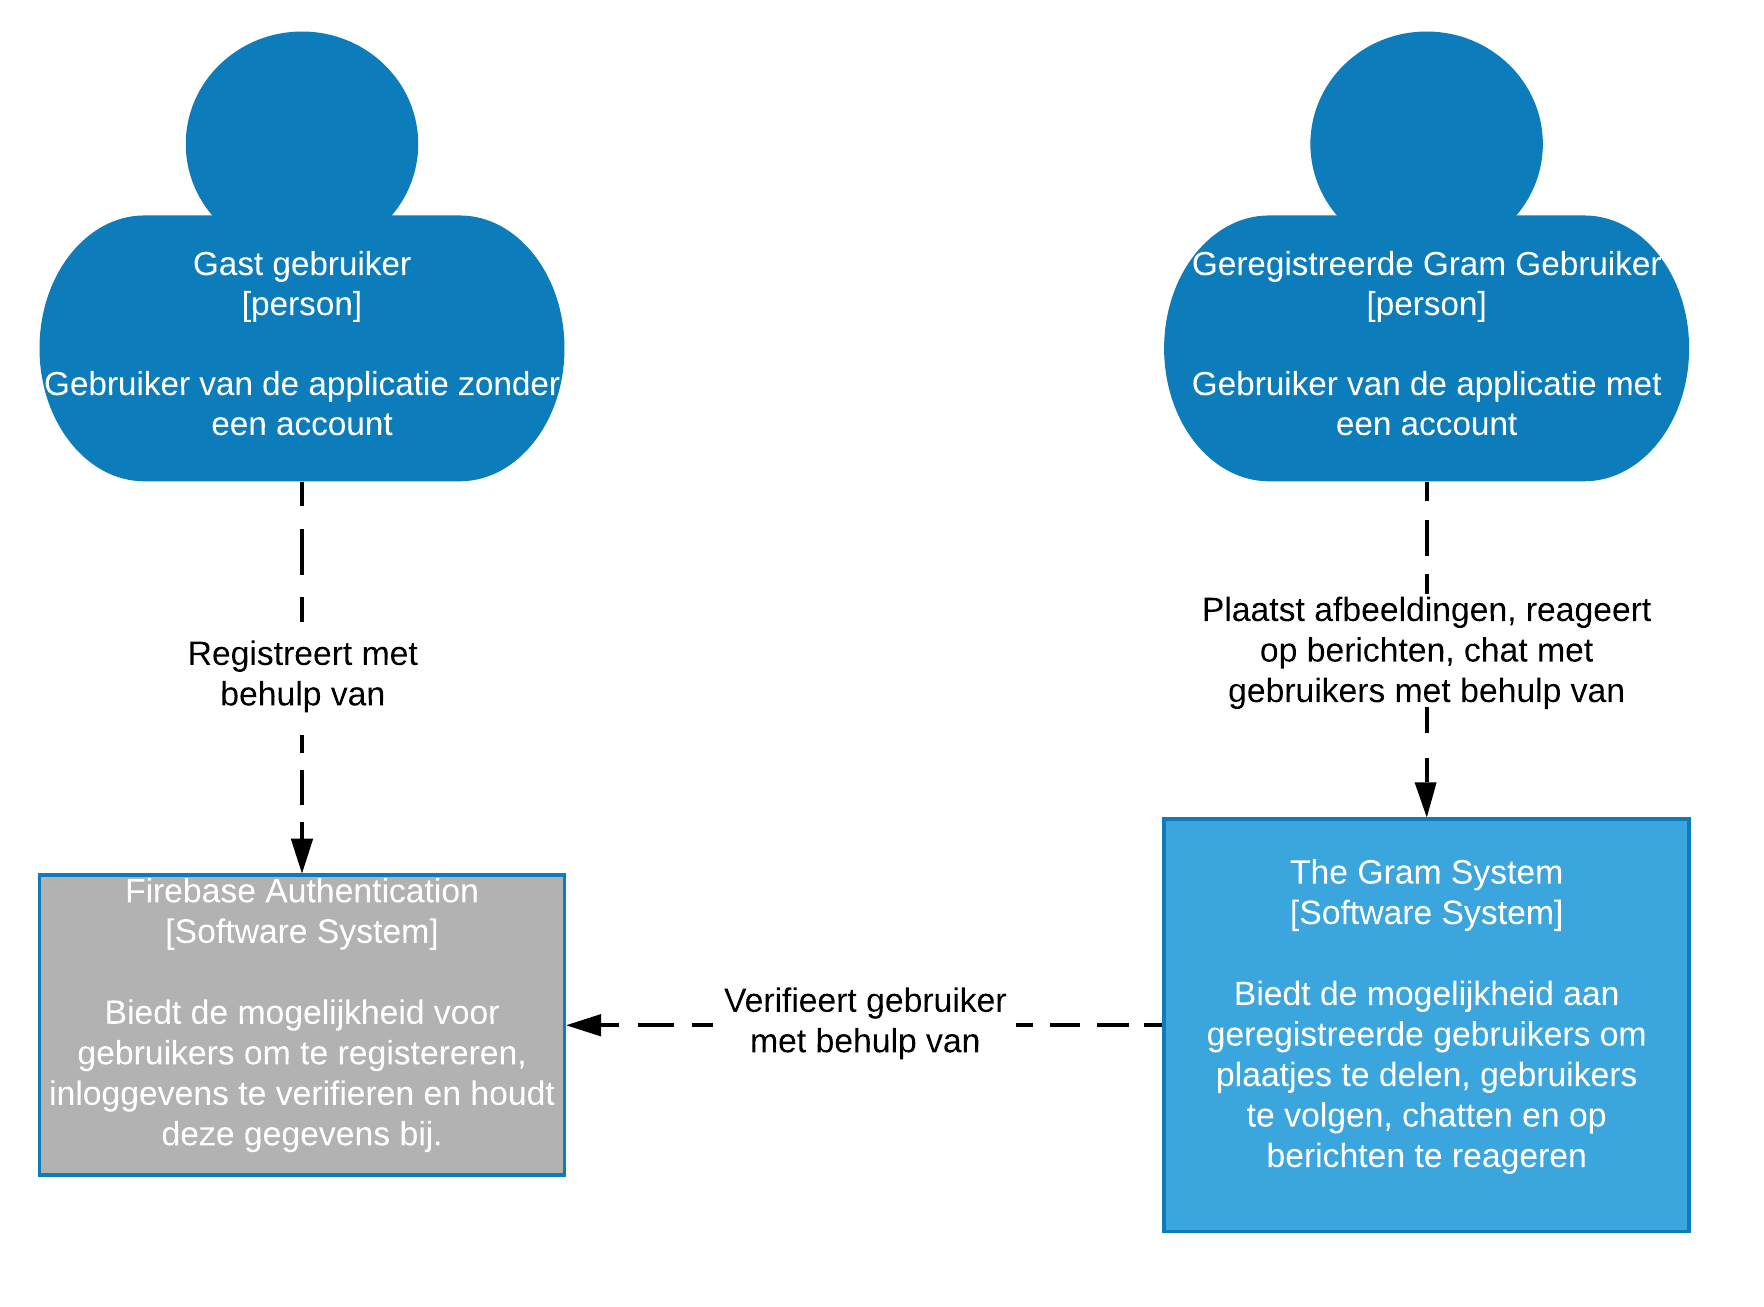
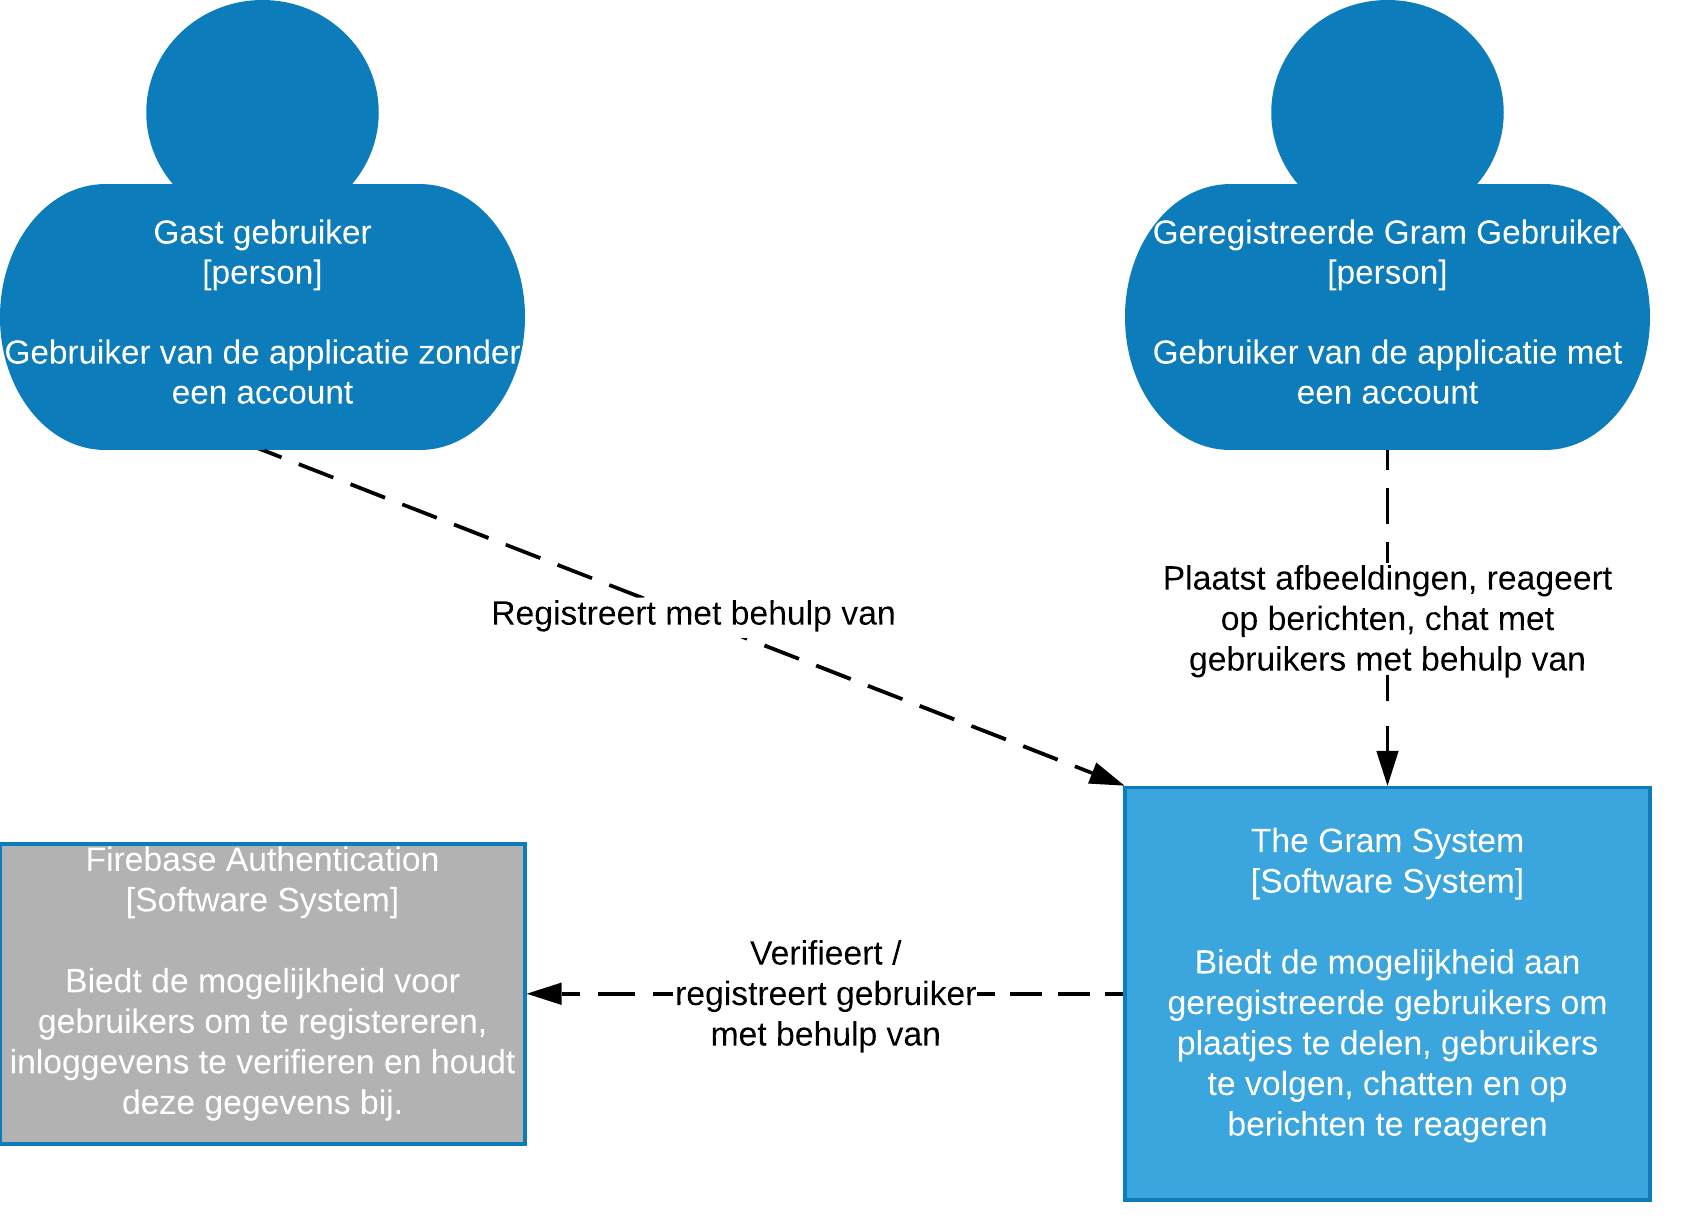
Updated C1 & added C4

diff --git a/SoftwareArchitectuurDocument.md b/SoftwareArchitectuurDocument.md
@@ -4,7 +4,7 @@
 
 ![App Icon](images/Appicon.jpg)
 
-##### V0.3
+##### V0.4
 
 ### Versiebeheer
 
@@ -13,6 +13,7 @@
 | v0.1   | 27-03-2020 | Eerste opzet          |
 | v0.2   | 28-03-2020 | C1, C2 & C3 modellen  |
 | v0.3   | 29-03-2020 | Omgezet naar markdown |
+| v0.4   | 15-04-2020 | Added C4 & updated C1 |
 
 ### Verspreidingen
 
@@ -26,7 +27,7 @@
 
 - [Software Architectuur Document](#software-architectuur-document)
       - [Tommy Goossens - The Gram](#tommy-goossens---the-gram)
-        - [V0.3](#v03)
+        - [V0.4](#v04)
     - [Versiebeheer](#versiebeheer)
     - [Verspreidingen](#verspreidingen)
     - [Inhoudsopgave](#inhoudsopgave)
@@ -90,5 +91,9 @@ De chat controller haalt de bericht geschiedenis op en de WS controller zorgt vo
 ![C3 Profile & Chat services](<images/C3 Componenten Diagram Profile en Chat.png>)
 
 ### C4 Componenten en Activiteitendiagram
+
+Onderstaand het klassendiagram voor de globale applicatie. Iedere service zal zijn eigen user object bijhouden.
+
+![C4 Class diagram](images/C4%20Class%20Diagram.png)
 
 ### Communicatie
